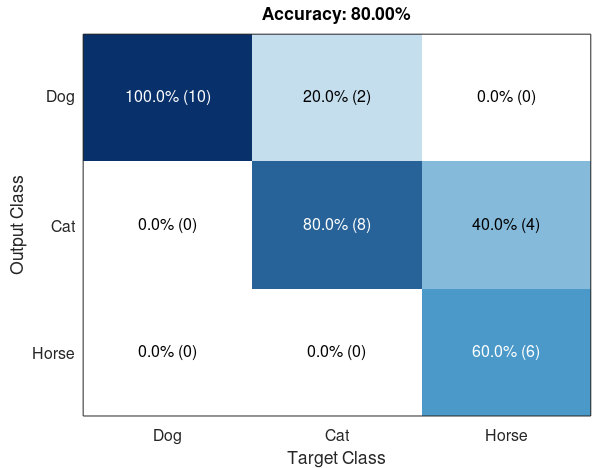
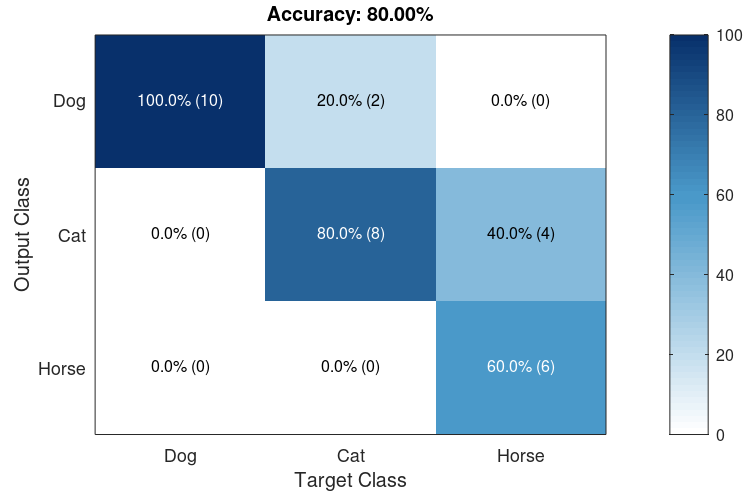
Add colorbar

Changed region(s): [[0.0, 0.0, 1.0, 1.0], [0.1863, 0.7179, 0.3105, 0.7778], [0.1863, 0.4487, 0.3105, 0.5085]]

diff --git a/plotConfMat.m b/plotConfMat.m
@@ -51,7 +51,6 @@ confpercent = 100*confmat./repmat(sum(confmat, 1),numlabels,1);
 imagesc(confpercent);
 title(sprintf('Accuracy: %.2f%%', 100*trace(confmat)/sum(confmat(:))));
 ylabel('Output Class'); xlabel('Target Class');
-set(gca, 'FontSize', fontsize);
 
 % set the colormap
 if grayscale
@@ -101,10 +100,16 @@ for i = 1:length(hStrings)
     set(hStrings(i),'Color', textColors(i,:));
 end
 
-% Setting the axis labels
+% Setting the axis labels and font size
 set(gca,'XTick',1:numlabels,...
     'XTickLabel',labels,...
     'YTick',1:numlabels,...
     'YTickLabel',labels,...
-    'TickLength',[0 0]);
+    'TickLength',[0 0],...
+    'FontSize', 18);
+
+% add colorbar
+h = colorbar;
+set(h, 'FontSize', fontsize);
+
 end
